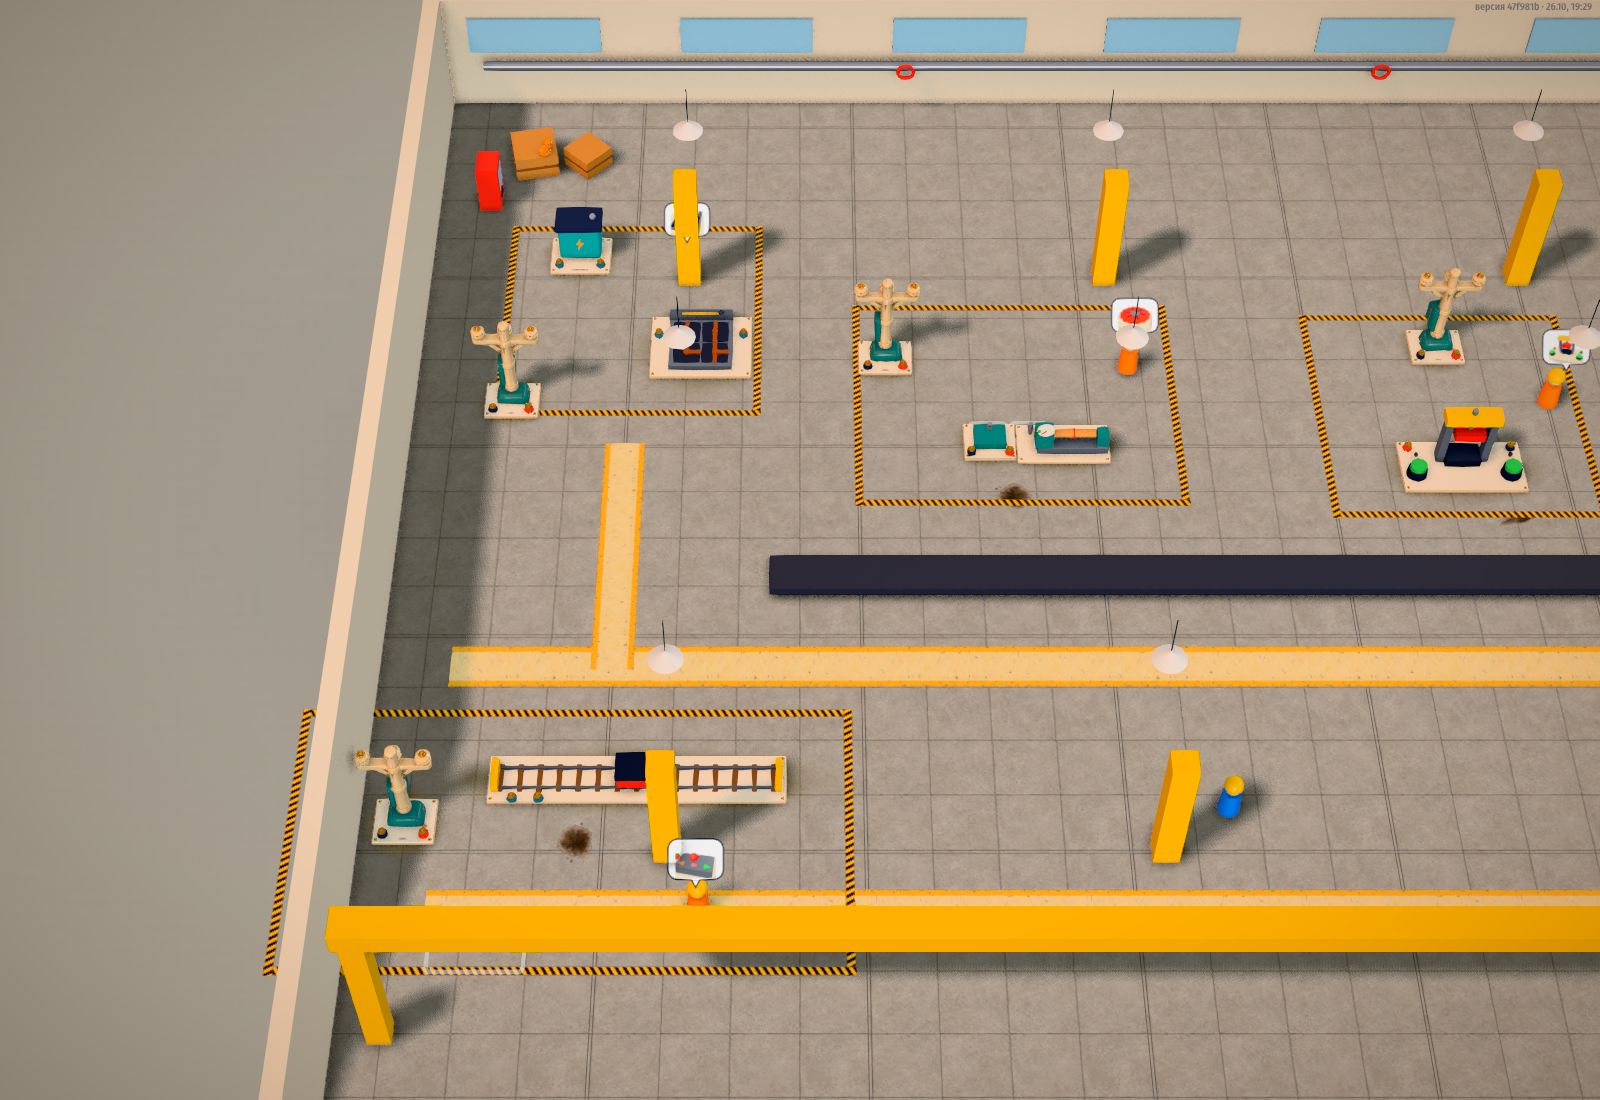
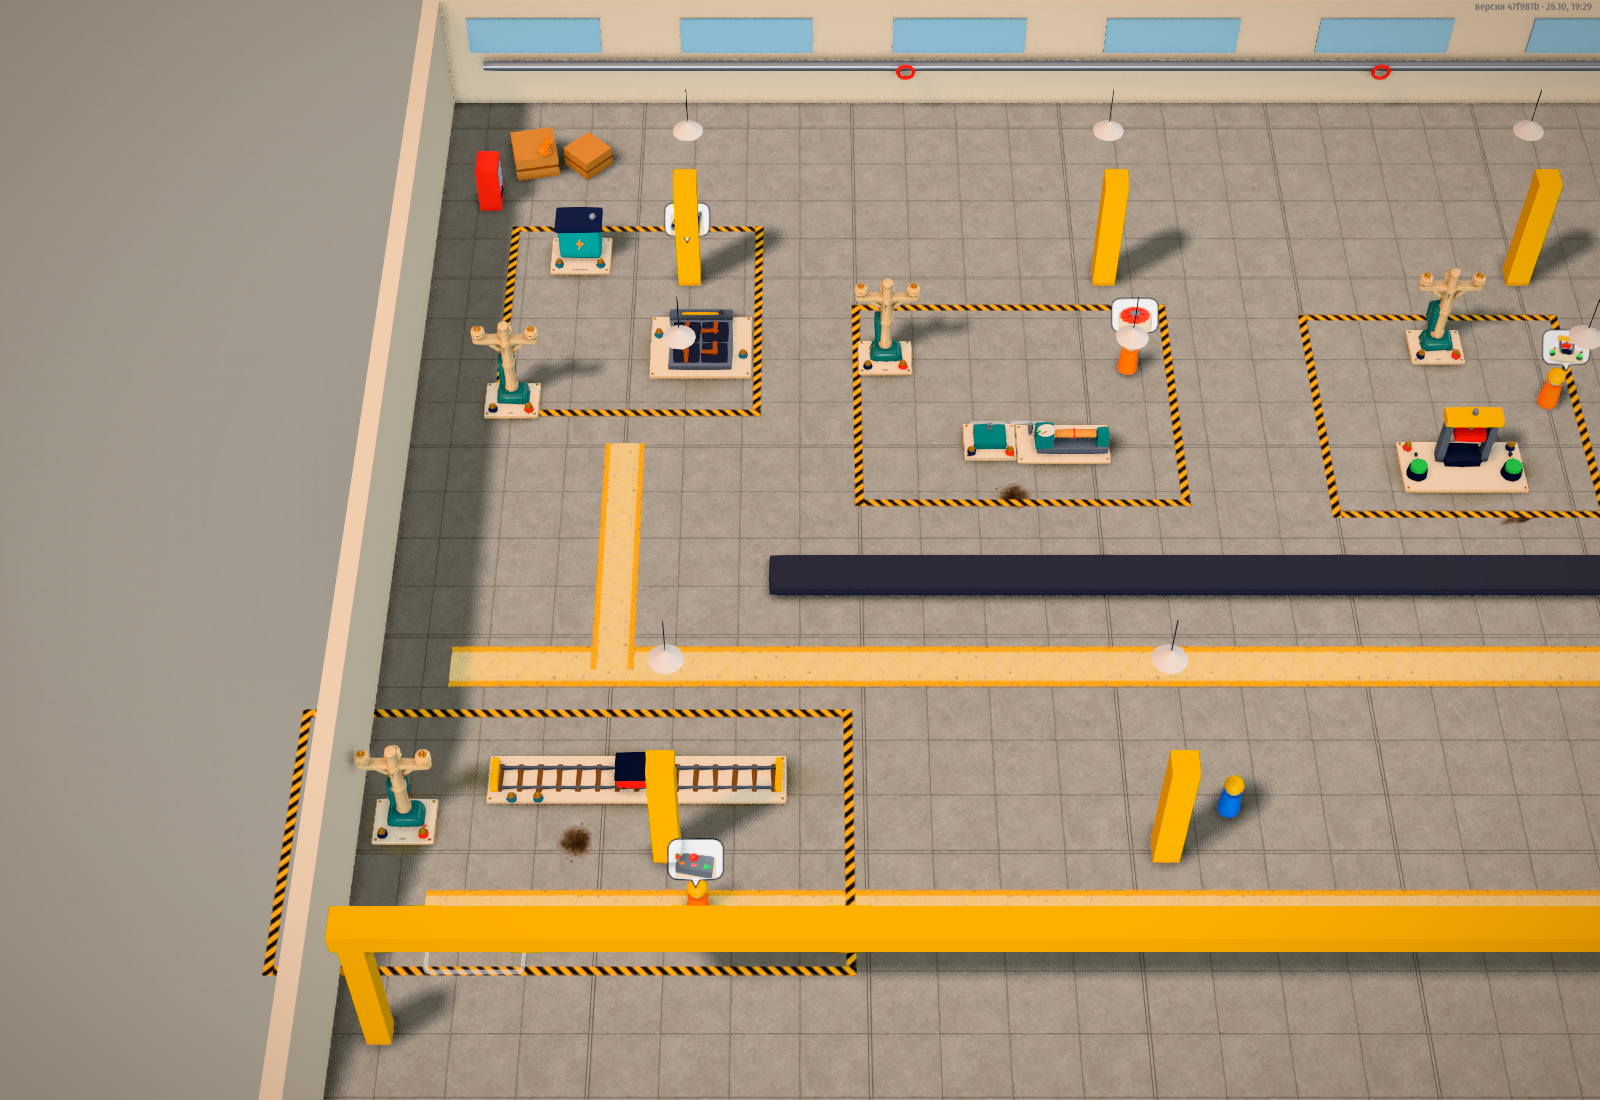
Factory kit: hazard frames at Codex's scale

diff --git a/src/factory.ts b/src/factory.ts
@@ -284,7 +284,7 @@ export class FactoryMap extends StoryMap {
       const strip = kitPieces('factory', 'hazard-strip', true);
       if (this.kit && strip.length) {
         const [x0, x1, z0, z1] = [cx - w / 2, cx + w / 2, cz - d / 2, cz + d / 2];
-        hall.add(ribbons([{ pts: [[x0, z0], [x1, z0], [x1, z1], [x0, z1], [x0, z0]], w: 0.3 }], strip[0], 1, 2.4, 0.0075, 2, 0.5));
+        hall.add(ribbons([{ pts: [[x0, z0], [x1, z0], [x1, z1], [x0, z1], [x0, z0]], w: 0.3 }], strip[0], 1.12, 4.36, 0.0075, 2, 0.5));
       } else hall.add(hazard(cx, cz, w, d));
     }
     for (const [x, z, n] of [[36, -14, 3], [38.2, -14, 2], [36, -10.5, 2]] as const) hall.add(stack(x, z, n));
